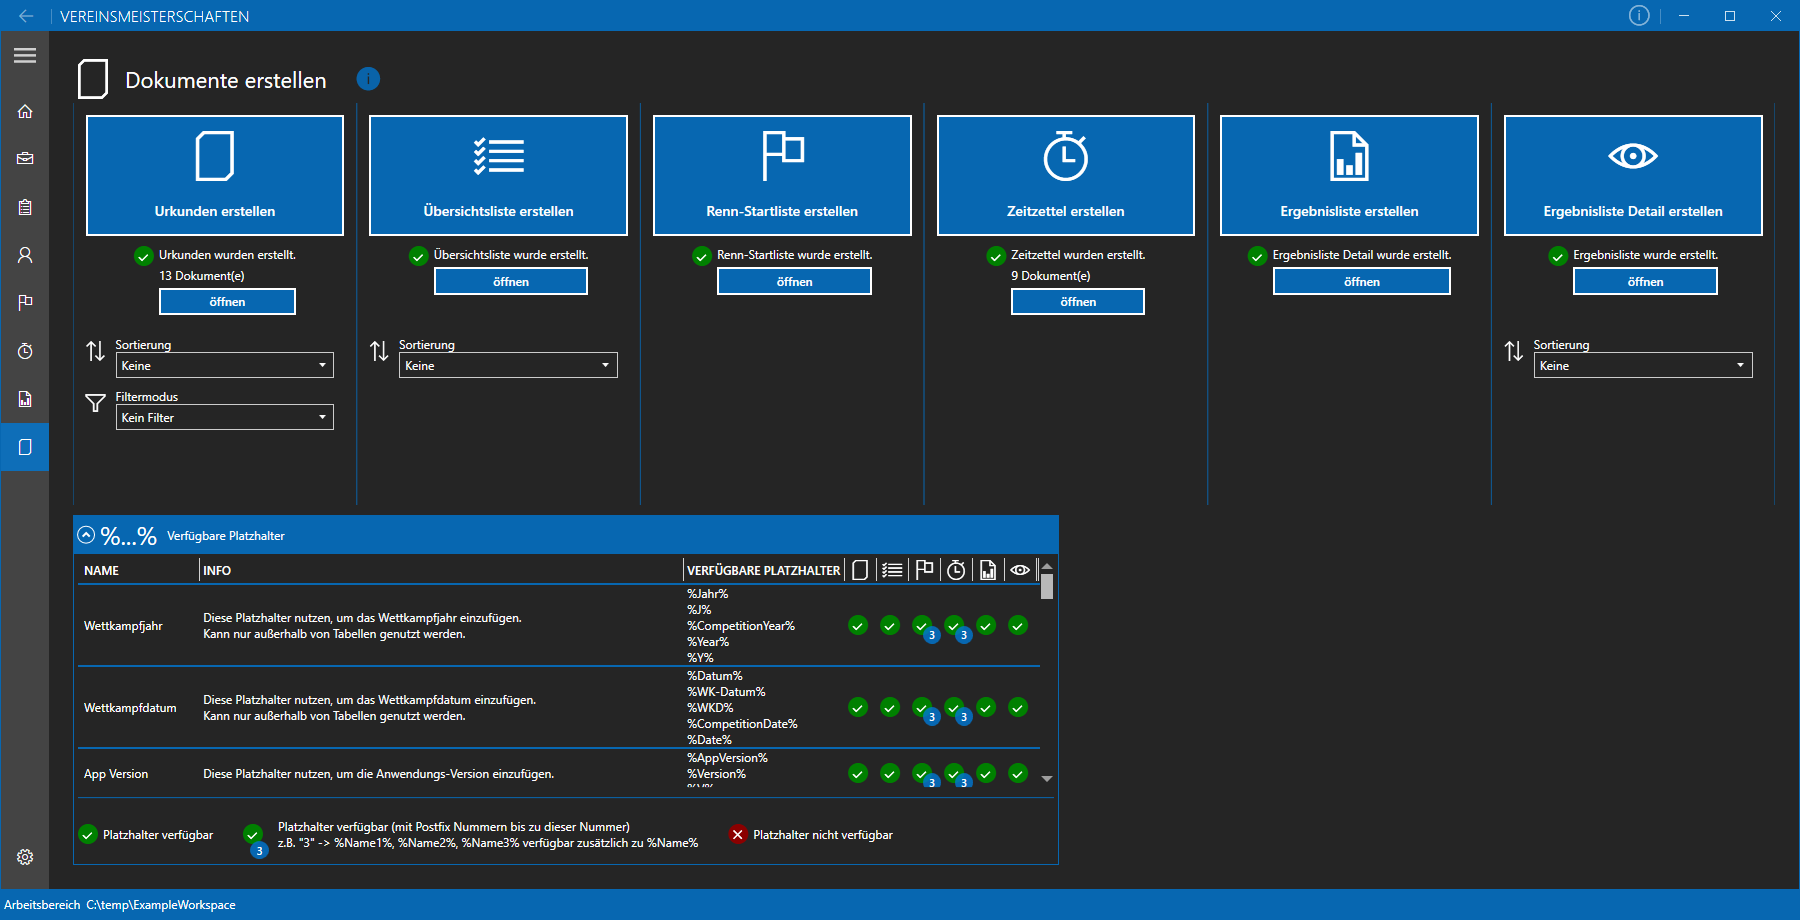
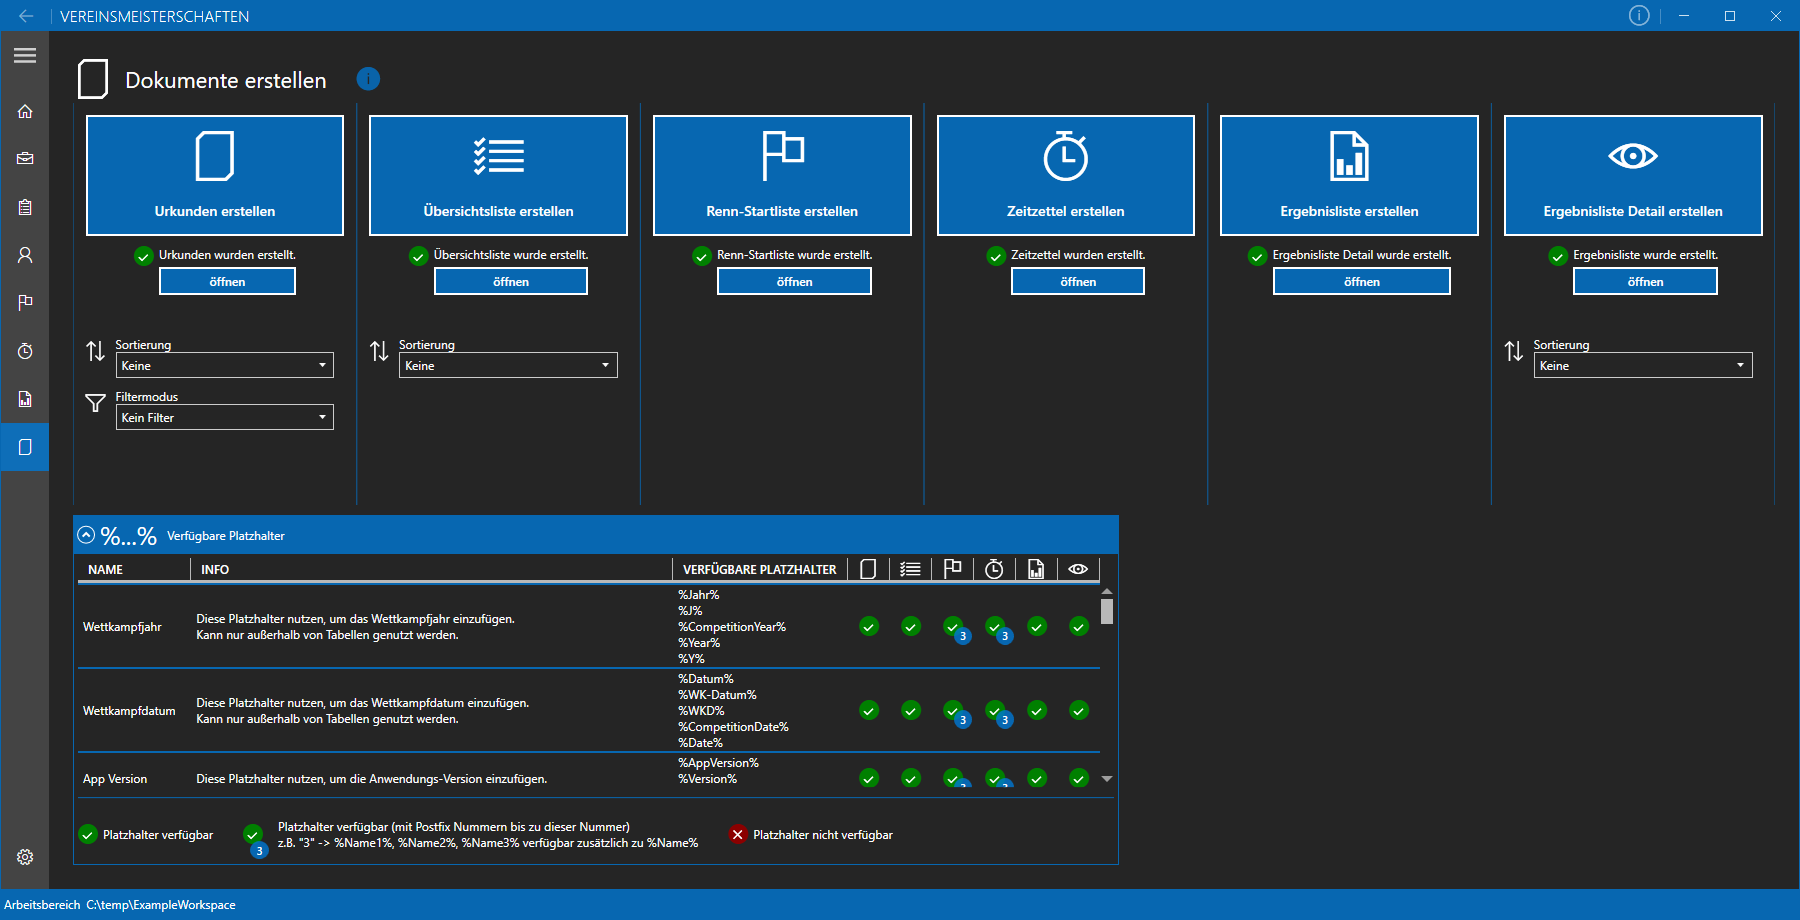
Changed ListView on CreateDocumentsPage to DataGrid, small layout change to CreateDocumentsPage, open window centered on screen

Changed region(s): [[0.0311, 0.5478, 0.6222, 0.8522], [0.56, 0.2739, 0.6533, 0.3652], [0.0622, 0.2739, 0.1867, 0.3652]]

diff --git a/Vereinsmeisterschaften/Views/CreateDocumentsPage.xaml b/Vereinsmeisterschaften/Views/CreateDocumentsPage.xaml
@@ -13,6 +13,7 @@
     xmlns:coreModels="clr-namespace:Vereinsmeisterschaften.Core.Models;assembly=Vereinsmeisterschaften.Core"
     xmlns:viewModels="clr-namespace:Vereinsmeisterschaften.ViewModels"
     xmlns:templateSelectors="clr-namespace:Vereinsmeisterschaften.TemplateSelectors"
+    xmlns:behaviors="clr-namespace:Vereinsmeisterschaften.Behaviors"
     xmlns:Dialog="clr-namespace:MahApps.Metro.Controls.Dialogs;assembly=MahApps.Metro"
     Dialog:DialogParticipation.Register="{Binding}"
     mc:Ignorable="d"
@@ -27,8 +28,8 @@
     <Grid Margin="{StaticResource MediumLeftTopRightBottomMargin}">
         <Grid.RowDefinitions>
             <RowDefinition Height="48"/>
-            <RowDefinition Height="*"/>
             <RowDefinition Height="Auto"/>
+            <RowDefinition Height="*"/>
         </Grid.RowDefinitions>
         <Grid.ColumnDefinitions>
             <ColumnDefinition Width="*"/>
@@ -192,7 +193,7 @@
         
         <!-- +++++++++++++++++++++++++++++++++++++++++++++++++++++++++++++++++++++++++++++++++++++++++++++++++++++++++++++++++++++++++ -->
         <!-- Placeholder Info-->
-        <Expander Grid.Row="2" Grid.Column="0" Margin="0,10,0,0" Grid.ColumnSpan="6" HorizontalAlignment="Left" IsExpanded="True" MaxHeight="350" controls:ControlsHelper.ContentCharacterCasing="Normal">
+        <Expander Grid.Row="2" Grid.Column="0" Margin="0,10,0,0" Grid.ColumnSpan="6" HorizontalAlignment="Left" VerticalAlignment="Bottom" IsExpanded="True" controls:ControlsHelper.ContentCharacterCasing="Normal">
             <Expander.Header>
                 <StackPanel Orientation="Horizontal">
                     <TextBlock VerticalAlignment="Center" FontSize="25" Text="%...%"/>
@@ -217,123 +218,126 @@
 
                 <Separator Margin="0,10,0,0" DockPanel.Dock="Bottom" BorderBrush="{DynamicResource MahApps.Brushes.Accent}" BorderThickness="4"/>
 
-                <ListView ItemsSource="{Binding PlaceholderViewConfigs}">
-                    <ListView.ItemContainerStyle>
-                        <Style TargetType="{x:Type ListViewItem}" BasedOn="{StaticResource MahApps.Styles.ListViewItem}">
+                <DataGrid ItemsSource="{Binding PlaceholderViewConfigs}" AutoGenerateColumns="False" CanUserAddRows="False"
+                          behaviors:DataGridBehavior.DisplayRowNumber="True" HeadersVisibility="Column" SelectionMode="Single" CanUserReorderColumns="False"
+                          ColumnHeaderStyle="{StaticResource DataGridColumnHeaderCenteringStyle}">
+                    <DataGrid.RowStyle>
+                        <Style TargetType="{x:Type DataGridRow}" BasedOn="{StaticResource MahApps.Styles.DataGridRow}">
                             <Setter Property="BorderBrush" Value="{DynamicResource MahApps.Brushes.Accent}"/>
                             <Setter Property="BorderThickness" Value="0,2,0,0"/>
                         </Style>
-                    </ListView.ItemContainerStyle>
+                    </DataGrid.RowStyle>
 
-                    <ListView.View>
-                        <GridView>
-                            <!-- Placeholder Name -->
-                            <GridViewColumn DisplayMemberBinding="{Binding Name}" Header="{x:Static properties:Resources.NameString}"/>
+                    <DataGrid.Columns>
+                        <!-- Placeholder Name -->
+                        <DataGridTextColumn Header="{x:Static properties:Resources.NameString}" HeaderStyle="{StaticResource DataGridColumnHeaderLeftStyle}"
+                                            Binding="{Binding Name}" IsReadOnly="True"/>
 
-                            <!-- Placeholder Info -->
-                            <GridViewColumn DisplayMemberBinding="{Binding Info}" Header="{x:Static properties:Resources.InfoString}"/>
+                        <!-- Placeholder Info -->
+                        <DataGridTextColumn Header="{x:Static properties:Resources.InfoString}" HeaderStyle="{StaticResource DataGridColumnHeaderLeftStyle}"
+                                            Binding="{Binding Info}" IsReadOnly="True"/>
 
-                            <!-- Placeholders -->
-                            <GridViewColumn DisplayMemberBinding="{Binding Placeholders}" Header="{x:Static properties:Resources.AvailablePlaceholdersString}"/>
+                        <!-- Placeholders -->
+                        <DataGridTextColumn Header="{x:Static properties:Resources.AvailablePlaceholdersString}" HeaderStyle="{StaticResource DataGridColumnHeaderLeftStyle}"
+                                            Binding="{Binding Placeholders}" IsReadOnly="True"/>
 
-                            <!-- Supported Placeholders for Certificates Document Type -->
-                            <GridViewColumn HeaderContainerStyle="{StaticResource StyleCenteredGridViewColumnHeader}">
-                                <GridViewColumn.Header>
-                                    <controls:FontIcon Glyph="&#xE8A5;" ToolTip="{x:Static properties:Resources.CreateCertificatesString}"/>
-                                </GridViewColumn.Header>
-                                <GridViewColumn.CellTemplate>
-                                    <DataTemplate>
-                                        <controls:Badged HorizontalAlignment="Center" Badge="{Binding PostfixNumbersSupportedForDocumentType[Certificates]}" BadgeBackground="{DynamicResource MahApps.Brushes.Accent}" BadgePlacementMode="BottomRight">
-                                            <userControls:BoolTemplateContentControl TrueTemplate="{StaticResource ControlTemplateOkIndicator}"
-                                                                                     FalseTemplate="{StaticResource ControlTemplateErrorIndicator}"
-                                                                                     BoolValue="{Binding IsSupportedForDocumentType[Certificates]}"/>
-                                        </controls:Badged>
-                                    </DataTemplate>
-                                </GridViewColumn.CellTemplate>
-                            </GridViewColumn>
+                        <!-- Supported Placeholders for Certificates Document Type -->
+                        <DataGridTemplateColumn SortMemberPath="IsSupportedForDocumentType[Certificates]" IsReadOnly="True">
+                            <DataGridTemplateColumn.Header>
+                                <controls:FontIcon Glyph="&#xE8A5;" ToolTip="{x:Static properties:Resources.CreateCertificatesString}"/>
+                            </DataGridTemplateColumn.Header>
+                            <DataGridTemplateColumn.CellTemplate>
+                                <DataTemplate>
+                                    <controls:Badged HorizontalAlignment="Center" Badge="{Binding PostfixNumbersSupportedForDocumentType[Certificates]}" BadgeBackground="{DynamicResource MahApps.Brushes.Accent}" BadgePlacementMode="BottomRight">
+                                        <userControls:BoolTemplateContentControl TrueTemplate="{StaticResource ControlTemplateOkIndicator}"
+                                                                                    FalseTemplate="{StaticResource ControlTemplateErrorIndicator}"
+                                                                                    BoolValue="{Binding IsSupportedForDocumentType[Certificates]}"/>
+                                    </controls:Badged>
+                                </DataTemplate>
+                            </DataGridTemplateColumn.CellTemplate>
+                        </DataGridTemplateColumn>
 
-                            <!-- Supported Placeholders for OverviewList Document Type -->
-                            <GridViewColumn HeaderContainerStyle="{StaticResource StyleCenteredGridViewColumnHeader}">
-                                <GridViewColumn.Header>
-                                    <controls:FontIcon Glyph="&#xE9D5;" ToolTip="{x:Static properties:Resources.CreateOverviewListString}"/>
-                                </GridViewColumn.Header>
-                                <GridViewColumn.CellTemplate>
-                                    <DataTemplate>
-                                        <controls:Badged HorizontalAlignment="Center" Badge="{Binding PostfixNumbersSupportedForDocumentType[OverviewList]}" BadgeBackground="{DynamicResource MahApps.Brushes.Accent}" BadgePlacementMode="BottomRight">
-                                            <userControls:BoolTemplateContentControl TrueTemplate="{StaticResource ControlTemplateOkIndicator}"
-                                                                                     FalseTemplate="{StaticResource ControlTemplateErrorIndicator}"
-                                                                                     BoolValue="{Binding IsSupportedForDocumentType[OverviewList]}"/>
-                                        </controls:Badged>
-                                    </DataTemplate>
-                                </GridViewColumn.CellTemplate>
-                            </GridViewColumn>
+                        <!-- Supported Placeholders for OverviewList Document Type -->
+                        <DataGridTemplateColumn SortMemberPath="IsSupportedForDocumentType[OverviewList]" IsReadOnly="True">
+                            <DataGridTemplateColumn.Header>
+                                <controls:FontIcon Glyph="&#xE9D5;" ToolTip="{x:Static properties:Resources.CreateOverviewListString}"/>
+                            </DataGridTemplateColumn.Header>
+                            <DataGridTemplateColumn.CellTemplate>
+                                <DataTemplate>
+                                    <controls:Badged HorizontalAlignment="Center" Badge="{Binding PostfixNumbersSupportedForDocumentType[OverviewList]}" BadgeBackground="{DynamicResource MahApps.Brushes.Accent}" BadgePlacementMode="BottomRight">
+                                        <userControls:BoolTemplateContentControl TrueTemplate="{StaticResource ControlTemplateOkIndicator}"
+                                                                                    FalseTemplate="{StaticResource ControlTemplateErrorIndicator}"
+                                                                                    BoolValue="{Binding IsSupportedForDocumentType[OverviewList]}"/>
+                                    </controls:Badged>
+                                </DataTemplate>
+                            </DataGridTemplateColumn.CellTemplate>
+                        </DataGridTemplateColumn>
 
-                            <!-- Supported Placeholders for RaceStartList Document Type -->
-                            <GridViewColumn HeaderContainerStyle="{StaticResource StyleCenteredGridViewColumnHeader}">
-                                <GridViewColumn.Header>
-                                    <controls:FontIcon Glyph="&#xE7C1;" ToolTip="{x:Static properties:Resources.CreateRaceStartListString}"/>
-                                </GridViewColumn.Header>
-                                <GridViewColumn.CellTemplate>
-                                    <DataTemplate>
-                                        <controls:Badged HorizontalAlignment="Center" Badge="{Binding PostfixNumbersSupportedForDocumentType[RaceStartList]}" BadgeBackground="{DynamicResource MahApps.Brushes.Accent}" BadgePlacementMode="BottomRight">
-                                            <userControls:BoolTemplateContentControl TrueTemplate="{StaticResource ControlTemplateOkIndicator}"
-                                                                                     FalseTemplate="{StaticResource ControlTemplateErrorIndicator}"
-                                                                                     BoolValue="{Binding IsSupportedForDocumentType[RaceStartList]}"/>
-                                        </controls:Badged>
-                                    </DataTemplate>
-                                </GridViewColumn.CellTemplate>
-                            </GridViewColumn>
+                        <!-- Supported Placeholders for RaceStartList Document Type -->
+                        <DataGridTemplateColumn SortMemberPath="IsSupportedForDocumentType[RaceStartList]" IsReadOnly="True">
+                            <DataGridTemplateColumn.Header>
+                                <controls:FontIcon Glyph="&#xE7C1;" ToolTip="{x:Static properties:Resources.CreateRaceStartListString}"/>
+                            </DataGridTemplateColumn.Header>
+                            <DataGridTemplateColumn.CellTemplate>
+                                <DataTemplate>
+                                    <controls:Badged HorizontalAlignment="Center" Badge="{Binding PostfixNumbersSupportedForDocumentType[RaceStartList]}" BadgeBackground="{DynamicResource MahApps.Brushes.Accent}" BadgePlacementMode="BottomRight">
+                                        <userControls:BoolTemplateContentControl TrueTemplate="{StaticResource ControlTemplateOkIndicator}"
+                                                                                    FalseTemplate="{StaticResource ControlTemplateErrorIndicator}"
+                                                                                    BoolValue="{Binding IsSupportedForDocumentType[RaceStartList]}"/>
+                                    </controls:Badged>
+                                </DataTemplate>
+                            </DataGridTemplateColumn.CellTemplate>
+                        </DataGridTemplateColumn>
 
-                            <!-- Supported Placeholders for TimeForms Document Type -->
-                            <GridViewColumn HeaderContainerStyle="{StaticResource StyleCenteredGridViewColumnHeader}">
-                                <GridViewColumn.Header>
-                                    <controls:FontIcon Glyph="&#xE916;" ToolTip="{x:Static properties:Resources.CreateTimeFormsString}"/>
-                                </GridViewColumn.Header>
-                                <GridViewColumn.CellTemplate>
-                                    <DataTemplate>
-                                        <controls:Badged HorizontalAlignment="Center" Badge="{Binding PostfixNumbersSupportedForDocumentType[TimeForms]}" BadgeBackground="{DynamicResource MahApps.Brushes.Accent}" BadgePlacementMode="BottomRight">
-                                            <userControls:BoolTemplateContentControl TrueTemplate="{StaticResource ControlTemplateOkIndicator}"
-                                                                                     FalseTemplate="{StaticResource ControlTemplateErrorIndicator}"
-                                                                                     BoolValue="{Binding IsSupportedForDocumentType[TimeForms]}"/>
-                                        </controls:Badged>
-                                    </DataTemplate>
-                                </GridViewColumn.CellTemplate>
-                            </GridViewColumn>
+                        <!-- Supported Placeholders for TimeForms Document Type -->
+                        <DataGridTemplateColumn SortMemberPath="IsSupportedForDocumentType[TimeForms]" IsReadOnly="True">
+                            <DataGridTemplateColumn.Header>
+                                <controls:FontIcon Glyph="&#xE916;" ToolTip="{x:Static properties:Resources.CreateTimeFormsString}"/>
+                            </DataGridTemplateColumn.Header>
+                            <DataGridTemplateColumn.CellTemplate>
+                                <DataTemplate>
+                                    <controls:Badged HorizontalAlignment="Center" Badge="{Binding PostfixNumbersSupportedForDocumentType[TimeForms]}" BadgeBackground="{DynamicResource MahApps.Brushes.Accent}" BadgePlacementMode="BottomRight">
+                                        <userControls:BoolTemplateContentControl TrueTemplate="{StaticResource ControlTemplateOkIndicator}"
+                                                                                    FalseTemplate="{StaticResource ControlTemplateErrorIndicator}"
+                                                                                    BoolValue="{Binding IsSupportedForDocumentType[TimeForms]}"/>
+                                    </controls:Badged>
+                                </DataTemplate>
+                            </DataGridTemplateColumn.CellTemplate>
+                        </DataGridTemplateColumn>
 
-                            <!-- Supported Placeholders for ResultList Document Type -->
-                            <GridViewColumn HeaderContainerStyle="{StaticResource StyleCenteredGridViewColumnHeader}">
-                                <GridViewColumn.Header>
-                                    <controls:FontIcon Glyph="&#xE9F9;" ToolTip="{x:Static properties:Resources.CreateResultListString}"/>
-                                </GridViewColumn.Header>
-                                <GridViewColumn.CellTemplate>
-                                    <DataTemplate>
-                                        <controls:Badged HorizontalAlignment="Center" Badge="{Binding PostfixNumbersSupportedForDocumentType[ResultList]}" BadgeBackground="{DynamicResource MahApps.Brushes.Accent}" BadgePlacementMode="BottomRight">
-                                            <userControls:BoolTemplateContentControl TrueTemplate="{StaticResource ControlTemplateOkIndicator}"
-                                                                                     FalseTemplate="{StaticResource ControlTemplateErrorIndicator}"
-                                                                                     BoolValue="{Binding IsSupportedForDocumentType[ResultList]}"/>
-                                        </controls:Badged>
-                                    </DataTemplate>
-                                </GridViewColumn.CellTemplate>
-                            </GridViewColumn>
+                        <!-- Supported Placeholders for ResultList Document Type -->
+                        <DataGridTemplateColumn SortMemberPath="IsSupportedForDocumentType[ResultList]" IsReadOnly="True">
+                            <DataGridTemplateColumn.Header>
+                                <controls:FontIcon Glyph="&#xE9F9;" ToolTip="{x:Static properties:Resources.CreateResultListString}"/>
+                            </DataGridTemplateColumn.Header>
+                            <DataGridTemplateColumn.CellTemplate>
+                                <DataTemplate>
+                                    <controls:Badged HorizontalAlignment="Center" Badge="{Binding PostfixNumbersSupportedForDocumentType[ResultList]}" BadgeBackground="{DynamicResource MahApps.Brushes.Accent}" BadgePlacementMode="BottomRight">
+                                        <userControls:BoolTemplateContentControl TrueTemplate="{StaticResource ControlTemplateOkIndicator}"
+                                                                                    FalseTemplate="{StaticResource ControlTemplateErrorIndicator}"
+                                                                                    BoolValue="{Binding IsSupportedForDocumentType[ResultList]}"/>
+                                    </controls:Badged>
+                                </DataTemplate>
+                            </DataGridTemplateColumn.CellTemplate>
+                        </DataGridTemplateColumn>
 
-                            <!-- Supported Placeholders for ResultListDetail Document Type -->
-                            <GridViewColumn HeaderContainerStyle="{StaticResource StyleCenteredGridViewColumnHeader}">
-                                <GridViewColumn.Header>
-                                    <controls:FontIcon Glyph="&#xE7B3;" ToolTip="{x:Static properties:Resources.CreateResultListDetailString}"/>
-                                </GridViewColumn.Header>
-                                <GridViewColumn.CellTemplate>
-                                    <DataTemplate>
-                                        <controls:Badged HorizontalAlignment="Center" Badge="{Binding PostfixNumbersSupportedForDocumentType[ResultListDetail]}" BadgeBackground="{DynamicResource MahApps.Brushes.Accent}" BadgePlacementMode="BottomRight">
-                                            <userControls:BoolTemplateContentControl TrueTemplate="{StaticResource ControlTemplateOkIndicator}"
+                        <!-- Supported Placeholders for ResultListDetail Document Type -->
+                        <DataGridTemplateColumn SortMemberPath="IsSupportedForDocumentType[ResultListDetail]" IsReadOnly="True">
+                            <DataGridTemplateColumn.Header>
+                                <controls:FontIcon Glyph="&#xE7B3;" ToolTip="{x:Static properties:Resources.CreateResultListDetailString}"/>
+                            </DataGridTemplateColumn.Header>
+                            <DataGridTemplateColumn.CellTemplate>
+                                <DataTemplate>
+                                    <controls:Badged HorizontalAlignment="Center" Badge="{Binding PostfixNumbersSupportedForDocumentType[ResultListDetail]}" BadgeBackground="{DynamicResource MahApps.Brushes.Accent}" BadgePlacementMode="BottomRight">
+                                        <userControls:BoolTemplateContentControl TrueTemplate="{StaticResource ControlTemplateOkIndicator}"
                                                                                      FalseTemplate="{StaticResource ControlTemplateErrorIndicator}"
                                                                                      BoolValue="{Binding IsSupportedForDocumentType[ResultListDetail]}"/>
-                                        </controls:Badged>
-                                    </DataTemplate>
-                                </GridViewColumn.CellTemplate>
-                            </GridViewColumn>
-                        </GridView>
-                    </ListView.View>
-                </ListView>
+                                    </controls:Badged>
+                                </DataTemplate>
+                            </DataGridTemplateColumn.CellTemplate>
+                        </DataGridTemplateColumn>
+                    </DataGrid.Columns>
+                </DataGrid>
             </DockPanel>
         </Expander>
         

diff --git a/Vereinsmeisterschaften/App.xaml b/Vereinsmeisterschaften/App.xaml
@@ -59,6 +59,10 @@
                 <Setter Property="HorizontalContentAlignment" Value="Center"/>
             </Style>
 
+            <Style x:Key="DataGridColumnHeaderLeftStyle" TargetType="{x:Type DataGridColumnHeader}" BasedOn="{StaticResource MahApps.Styles.DataGridColumnHeader}">
+                <Setter Property="HorizontalContentAlignment" Value="Left"/>
+            </Style>
+
             <Style x:Key="DataGridTextCellCenteringStyle" TargetType="{x:Type TextBlock}">
                 <Setter Property="HorizontalAlignment" Value="Center" />
             </Style>

diff --git a/Vereinsmeisterschaften/Views/ShellWindow.xaml b/Vereinsmeisterschaften/Views/ShellWindow.xaml
@@ -15,7 +15,8 @@
     mc:Ignorable="d"
     Width="1800"
     Height="920"
-    Title="{x:Static properties:Resources.AppDisplayName}">
+    Title="{x:Static properties:Resources.AppDisplayName}"
+    WindowStartupLocation="CenterScreen">
     <i:Interaction.Triggers>
         <i:EventTrigger EventName="Loaded">
             <i:InvokeCommandAction Command="{Binding LoadedCommand}" />
